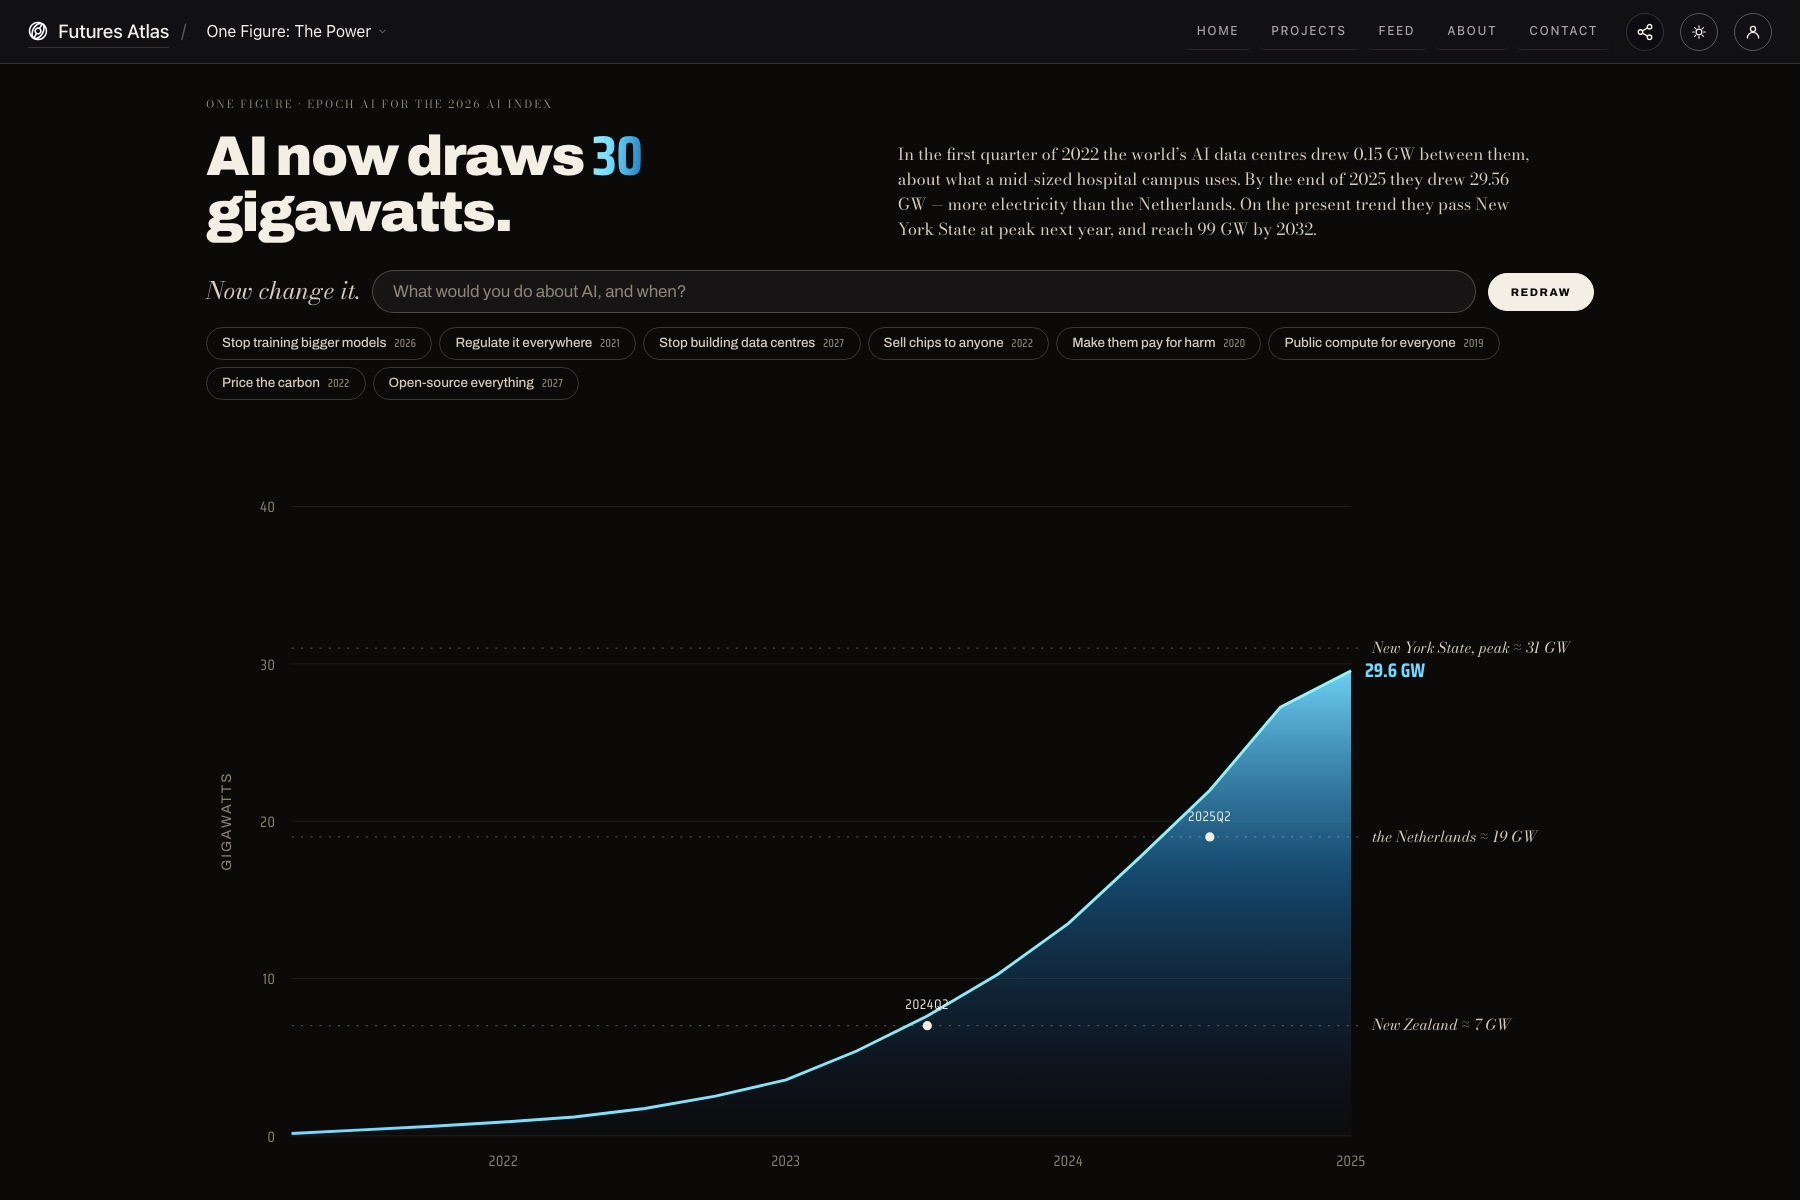
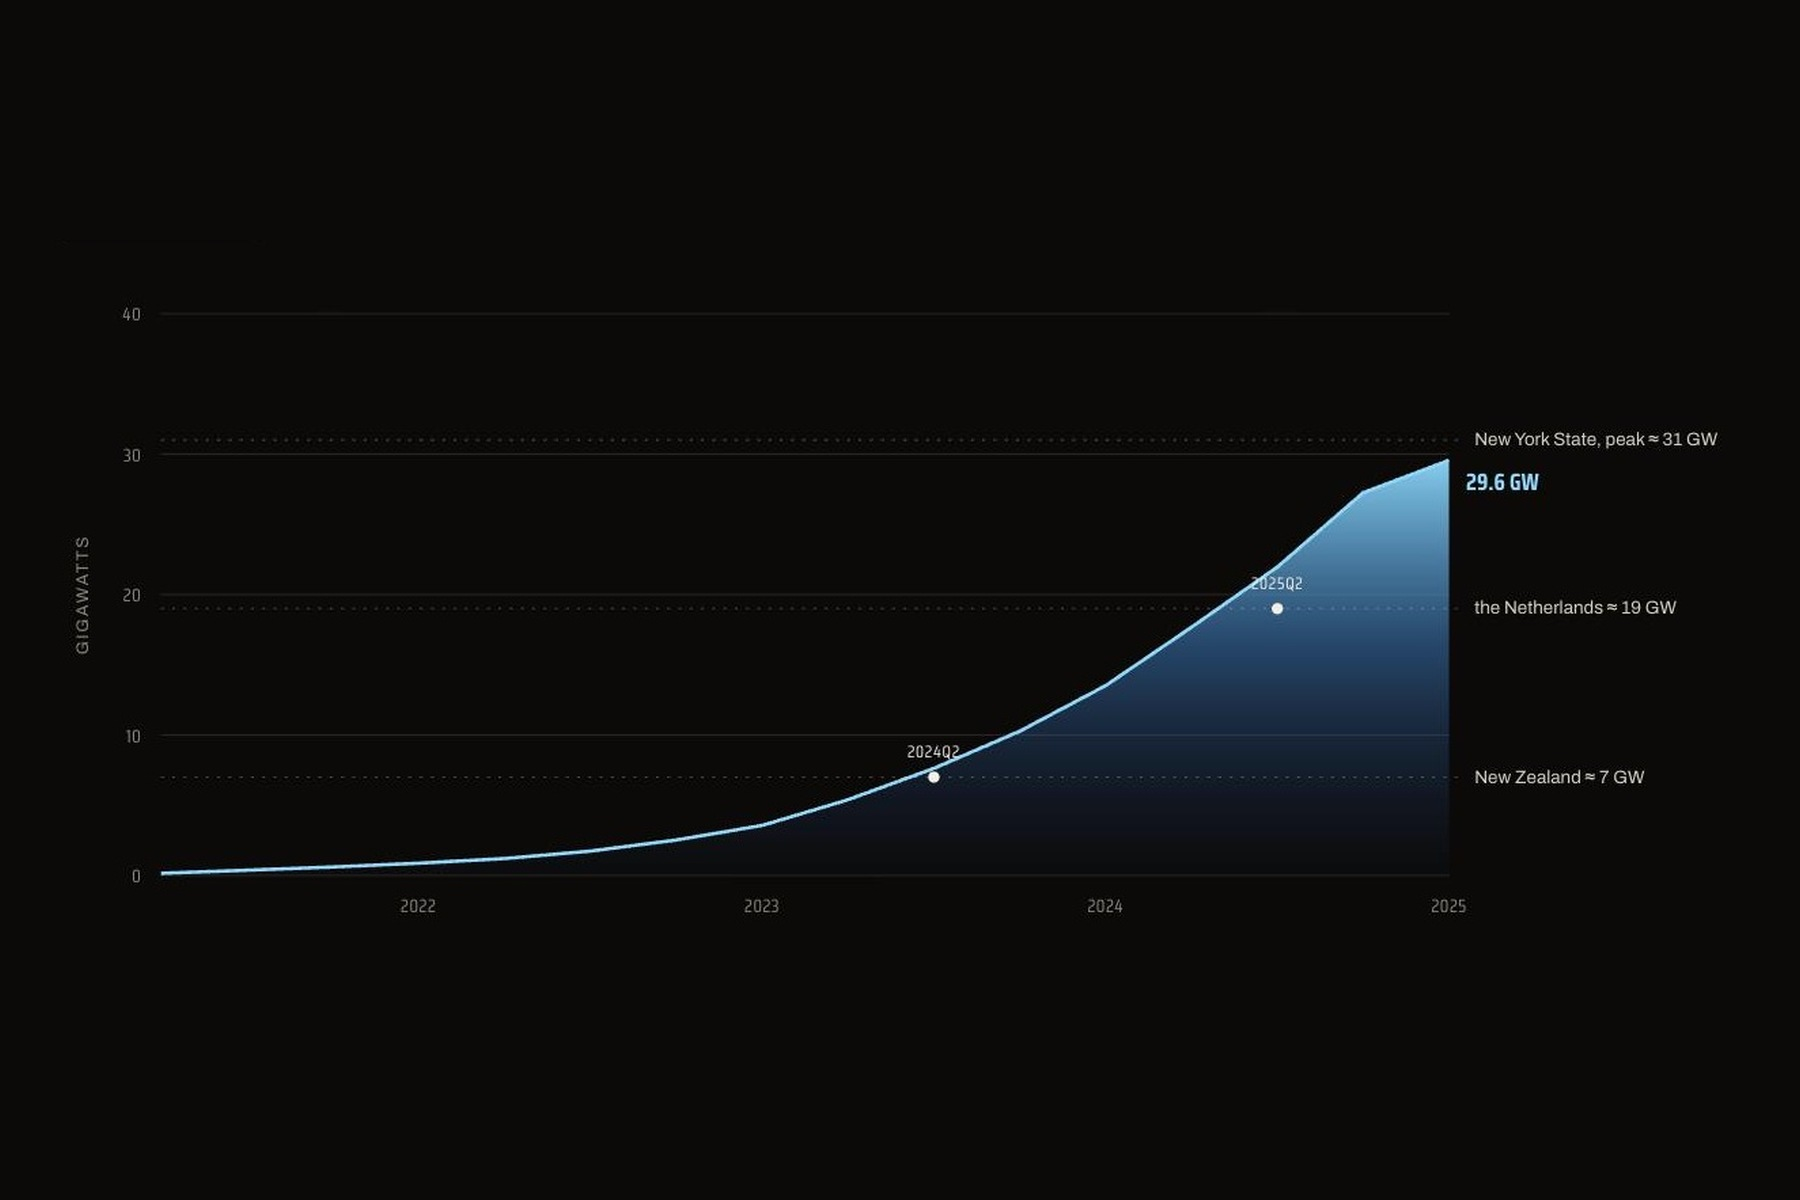
Magnifica: retake card thumbnail without the navbar
AI Gigawatts: rename from "One Figure: The Power", shorten tagline,
redo thumbnail as just the chart on black

diff --git a/src/data/projects.ts b/src/data/projects.ts
@@ -117,9 +117,9 @@ export const projects: Project[] = [
   },
   {
     id: "manipulate-ai-gigawatts",
-    title: "One Figure: The Power",
+    title: "AI Gigawatts",
     tagline:
-      "Global AI data centre power capacity as a rising field of light, with the countries it passes on the way up (New Zealand, the Netherlands, New York State at peak) and the quarter each one is crossed. Pick a decision and the counterfactual is cut out of the glow as a solid shape, so the gap between them is the subject rather than something to infer from two lines. Underneath: what you changed, what you changed elsewhere, and what you left alone.",
+      "Global AI data centre power capacity as a rising field of light, marking the countries it passes on the way up: New Zealand, the Netherlands, New York State at peak. Pick a decision and the counterfactual is cut from the glow as a solid shape, so the gap is the subject rather than two lines to compare.",
     year: "2026",
     date: "2026-08-13",
     field: "Manipulate the data",

diff --git a/public/atlas-nav.js b/public/atlas-nav.js
@@ -27,7 +27,7 @@
     { name: "Trajectories", path: "/trajectories", draft: true },
     { name: "The Counterfactual Index", path: "/manipulate-the-data", draft: true },
     { name: "Counterfactual Quantum", path: "/manipulate-the-data/quantum", draft: true },
-    { name: "One Figure: The Power", path: "/manipulate-the-data/ai-gigawatts" },
+    { name: "AI Gigawatts", path: "/manipulate-the-data/ai-gigawatts" },
     { name: "Hyperscale", path: "/hyperscale", draft: true },
     { name: "Signal Reactor", path: "/signal-reactor" },
     { name: "Quantum Spark", path: "/quantum-spark" },

diff --git a/manipulate-the-data/app/ai-gigawatts/page.tsx b/manipulate-the-data/app/ai-gigawatts/page.tsx
@@ -3,7 +3,7 @@ import Story from "@/components/one/Story";
 import "./one.css";
 
 export const metadata: Metadata = {
-  title: "One figure: the power",
+  title: "AI Gigawatts",
   description:
     "Global AI data centre power capacity, drawn as the countries it passes, then redrawn under a decision you pick.",
 };
